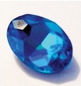
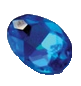
Made 4/5 resources have transparent backgrounds

diff --git a/Program.cs b/Program.cs
@@ -5,7 +5,7 @@ using System.Linq;
 
 namespace Splendor
 {
-	//TODO: Change resources to all be transparent backgrounds, and/or add my own standard one
+	//TODO: Change bone image and/or fix backgrounds
 	//TODO: Quest cards
 	//TODO: Player aids and Quest aid
 	//TODO: Shrink tool picture and place in hole?
